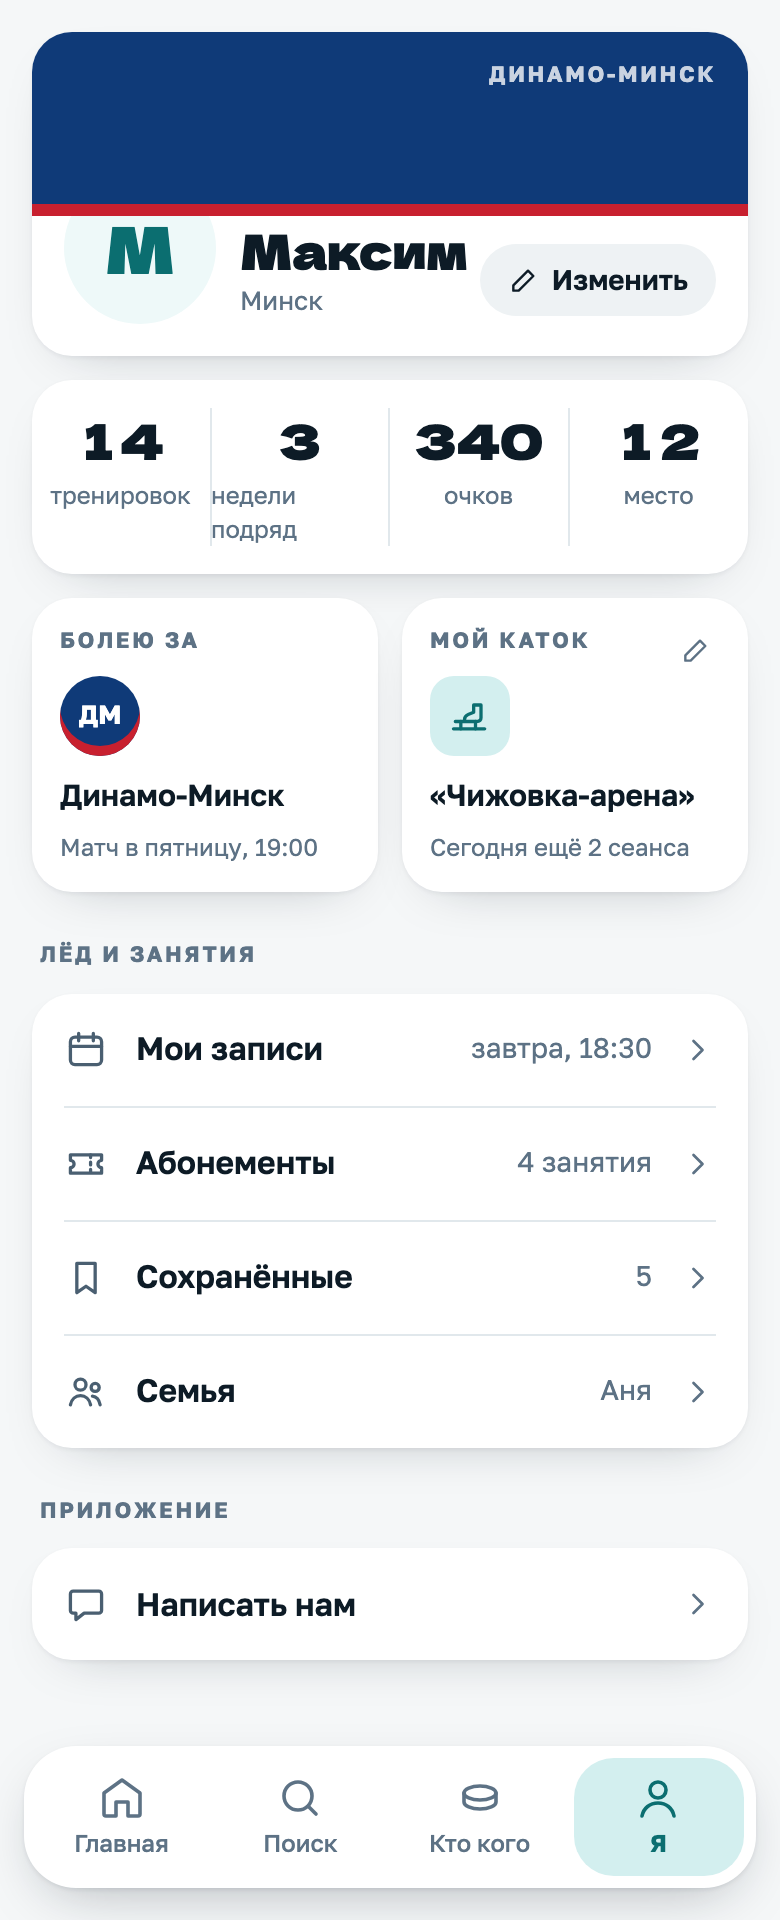
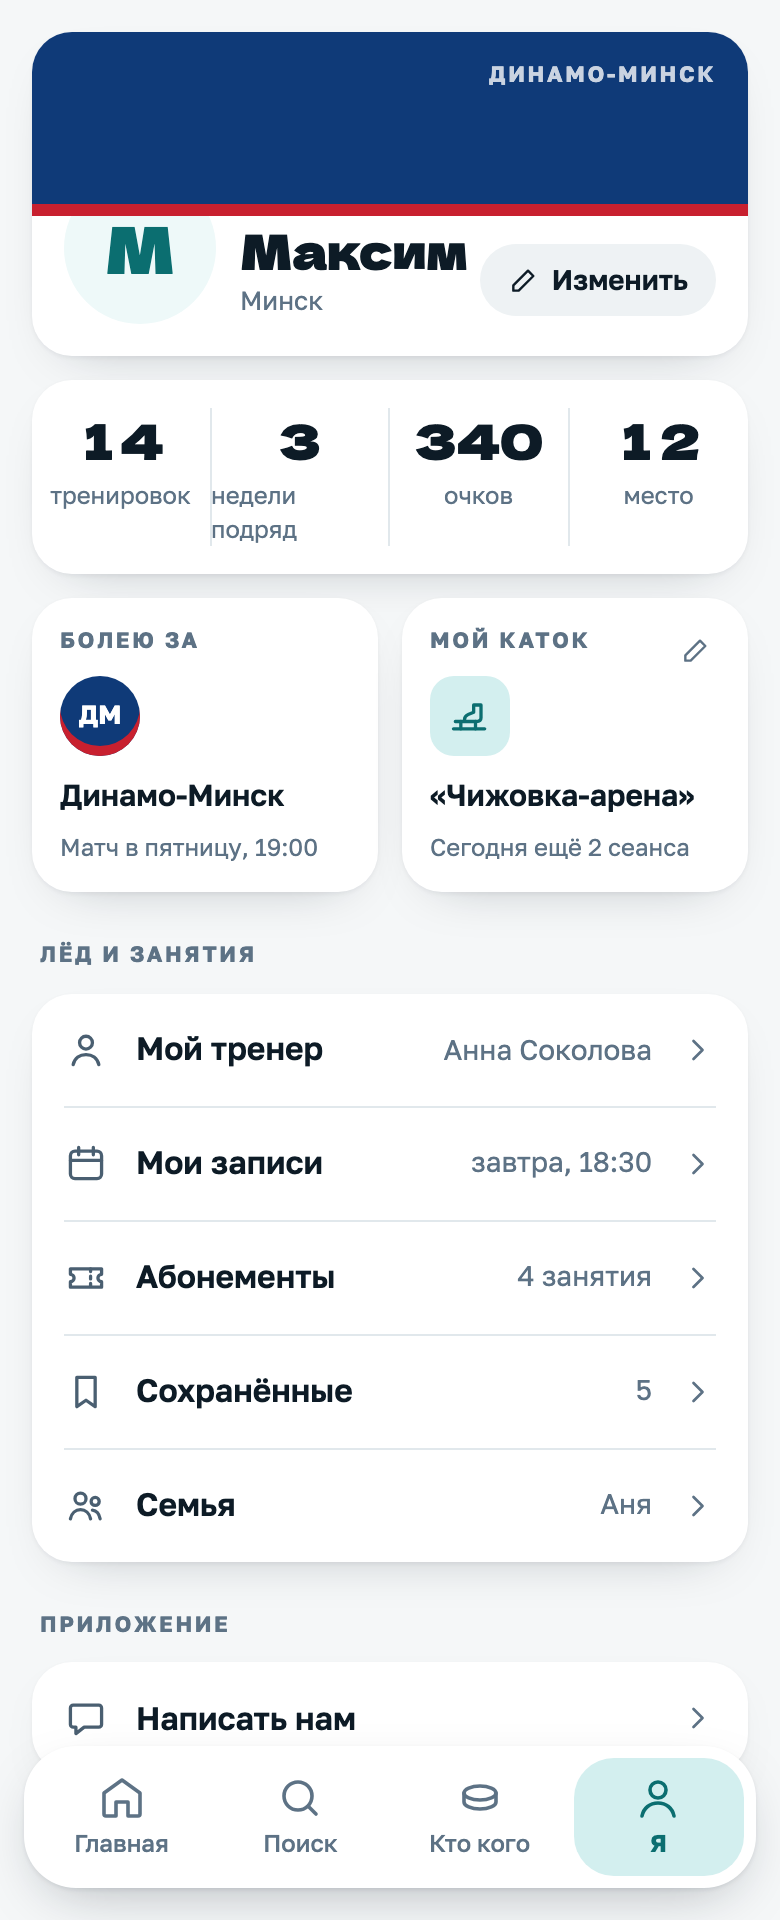
chore(design): строка «Мой тренер» в «Я»

diff --git a/design/your-season/rink-picker-step1.html b/design/your-season/rink-picker-step1.html
@@ -37,7 +37,7 @@ a{color:#0B6E70}a:hover{color:#073C3E}
           </span>
           <span style="flex: 1; min-width: 0; display: flex; flex-direction: column">
             <span style="font-weight: 600; font-size: 16px">«Чижовка-арена»</span>
-            <span style="font-size: 13px; color: #5d7285">сегодня ещё&nbsp;2&nbsp;сеанса</span>
+            <span style="font-size: 13px; color: #5d7285">сегодня ещё 2 сеанса</span>
           </span>
           <input type="radio" name="rink" checked="" style="width: 22px; height: 22px; margin: 0px; accent-color: rgb(11, 110, 112);">
         </label>
@@ -48,7 +48,7 @@ a{color:#0B6E70}a:hover{color:#073C3E}
           </span>
           <span style="flex: 1; min-width: 0; display: flex; flex-direction: column">
             <span style="font-weight: 600; font-size: 16px">«Замок»</span>
-            <span style="font-size: 13px; color: #5d7285">сегодня ещё&nbsp;1&nbsp;сеанс</span>
+            <span style="font-size: 13px; color: #5d7285">сегодня ещё 1 сеанс</span>
           </span>
           <input type="radio" name="rink" style="width: 22px; height: 22px; margin: 0px; accent-color: rgb(11, 110, 112);">
         </label>
@@ -59,7 +59,7 @@ a{color:#0B6E70}a:hover{color:#073C3E}
           </span>
           <span style="flex: 1; min-width: 0; display: flex; flex-direction: column">
             <span style="font-weight: 600; font-size: 16px">«Юность»</span>
-            <span style="font-size: 13px; color: #5d7285">сегодня ещё&nbsp;3&nbsp;сеанса</span>
+            <span style="font-size: 13px; color: #5d7285">сегодня ещё 3 сеанса</span>
           </span>
           <input type="radio" name="rink" style="width: 22px; height: 22px; margin: 0px; accent-color: rgb(11, 110, 112);">
         </label>
@@ -70,7 +70,7 @@ a{color:#0B6E70}a:hover{color:#073C3E}
           </span>
           <span style="flex: 1; min-width: 0; display: flex; flex-direction: column">
             <span style="font-weight: 600; font-size: 16px">Ледовый дворец</span>
-            <span style="font-size: 13px; color: #5d7285">сегодня сеансов нет, завтра&nbsp;— с&nbsp;9:00</span>
+            <span style="font-size: 13px; color: #5d7285">сегодня сеансов нет, завтра — с 9:00</span>
           </span>
           <input type="radio" name="rink" style="width: 22px; height: 22px; margin: 0px; accent-color: rgb(11, 110, 112);">
         </label>
@@ -81,7 +81,7 @@ a{color:#0B6E70}a:hover{color:#073C3E}
           </span>
           <span style="flex: 1; min-width: 0; display: flex; flex-direction: column">
             <span style="font-weight: 600; font-size: 16px">Минск-Арена</span>
-            <span style="font-size: 13px; color: #5d7285">сегодня ещё&nbsp;1&nbsp;сеанс</span>
+            <span style="font-size: 13px; color: #5d7285">сегодня ещё 1 сеанс</span>
           </span>
           <input type="radio" name="rink" style="width: 22px; height: 22px; margin: 0px; accent-color: rgb(11, 110, 112);">
         </label>
@@ -92,7 +92,7 @@ a{color:#0B6E70}a:hover{color:#073C3E}
           </span>
           <span style="flex: 1; min-width: 0; display: flex; flex-direction: column">
             <span style="font-weight: 600; font-size: 16px">Конькобежный стадион</span>
-            <span style="font-size: 13px; color: #5d7285">сегодня ещё&nbsp;2&nbsp;сеанса</span>
+            <span style="font-size: 13px; color: #5d7285">сегодня ещё 2 сеанса</span>
           </span>
           <input type="radio" name="rink" style="width: 22px; height: 22px; margin: 0px; accent-color: rgb(11, 110, 112);">
         </label>

diff --git a/design/your-season/source/MyRink.dc.html b/design/your-season/source/MyRink.dc.html
@@ -58,7 +58,7 @@ a{color:#0B6E70}a:hover{color:#073C3E}
       <span style="margin-top: 16px; width: 64px; height: 64px; border-radius: 20px; background: #D3EFEF; display: flex; align-items: center; justify-content: center; color: #0B6E70">
         <svg width="32" height="32" viewBox="0 0 24 24" fill="none" stroke="currentColor" stroke-width="1.8" stroke-linecap="round" stroke-linejoin="round" aria-hidden="true"><path d="M6 16V11a6 6 0 0 1 12 0v5l1.5 2h-15z"/><path d="M10 20a2 2 0 0 0 4 0"/></svg>
       </span>
-      <h2 id="bellTitle" style="margin: 8px 0 0; font-family: 'Dela Gothic One', sans-serif; font-weight: 400; font-size: 22px; line-height: 1.15">{{chosenName}} — твой каток</h2>
+      <h2 id="bellTitle" style="margin: 8px 0 0; font-family: 'Dela Gothic One', sans-serif; font-weight: 400; font-size: 22px; line-height: 1.15">{{chosenName}} — твой каток</h2>
       <p style="margin: 0; font-size: 15px; color: #4a5f71">Писать в&nbsp;Telegram, когда каток выложит новое расписание?</p>
       <div style="width: 100%; display: flex; flex-direction: column; gap: 6px; margin-top: 10px">
         <a href="Main.dc.html" style="display: flex; align-items: center; justify-content: center; height: 52px; border-radius: 14px; background: #45B9BB; color: #04262A; font-weight: 700; font-size: 16px; text-decoration: none">Да, писать</a>
@@ -78,12 +78,12 @@ class Component extends DCLogic {
     var self = this;
     var picked = this.state.picked;
     var list = [
-      { id: 'chizh', name: '«Чижовка-арена»', sub: 'сегодня ещё 2 сеанса' },
-      { id: 'zamok', name: '«Замок»', sub: 'сегодня ещё 1 сеанс' },
-      { id: 'yun', name: '«Юность»', sub: 'сегодня ещё 3 сеанса' },
-      { id: 'dvor', name: 'Ледовый дворец', sub: 'сегодня сеансов нет, завтра — с 9:00' },
-      { id: 'arena', name: 'Минск-Арена', sub: 'сегодня ещё 1 сеанс' },
-      { id: 'konk', name: 'Конькобежный стадион', sub: 'сегодня ещё 2 сеанса' }
+      { id: 'chizh', name: '«Чижовка-арена»', sub: 'сегодня ещё 2 сеанса' },
+      { id: 'zamok', name: '«Замок»', sub: 'сегодня ещё 1 сеанс' },
+      { id: 'yun', name: '«Юность»', sub: 'сегодня ещё 3 сеанса' },
+      { id: 'dvor', name: 'Ледовый дворец', sub: 'сегодня сеансов нет, завтра — с 9:00' },
+      { id: 'arena', name: 'Минск-Арена', sub: 'сегодня ещё 1 сеанс' },
+      { id: 'konk', name: 'Конькобежный стадион', sub: 'сегодня ещё 2 сеанса' }
     ];
     var chosen = list.filter(function (r) { return r.id === picked; })[0];
     return {

diff --git a/design/your-season/source/Main.dc.html b/design/your-season/source/Main.dc.html
@@ -108,6 +108,14 @@ a{color:#0B6E70}a:hover{color:#073C3E}
     <nav style="background: {{t.surface}}; border-radius: 20px; box-shadow: {{t.shadow}}; padding: 0 16px">
       <sc-if value="{{isSeason}}" hint-placeholder-val="{{true}}">
         <a href="#" style="display: flex; align-items: center; gap: 14px; min-height: 56px; border-bottom: 1px solid {{t.line}}; color: inherit; text-decoration: none">
+          <svg width="22" height="22" viewBox="0 0 24 24" fill="none" stroke="{{t.ink2}}" stroke-width="1.8" stroke-linecap="round" stroke-linejoin="round" aria-hidden="true"><circle cx="12" cy="8" r="3.5"/><path d="M5 20c.8-3.6 3.6-5.5 7-5.5s6.2 1.9 7 5.5"/></svg>
+          <span style="flex: none; font-weight: 600; font-size: 16px">Мой тренер</span>
+          <span style="flex: 1; min-width: 0; text-align: right; font-size: 14px; line-height: 1.25; color: {{t.muted}}">Анна&nbsp;Соколова</span>
+          <svg width="18" height="18" viewBox="0 0 24 24" fill="none" stroke="{{t.muted}}" stroke-width="1.8" stroke-linecap="round" stroke-linejoin="round" aria-hidden="true"><path d="m9 6 6 6-6 6"/></svg>
+        </a>
+      </sc-if>
+      <sc-if value="{{isSeason}}" hint-placeholder-val="{{true}}">
+        <a href="#" style="display: flex; align-items: center; gap: 14px; min-height: 56px; border-bottom: 1px solid {{t.line}}; color: inherit; text-decoration: none">
           <svg width="22" height="22" viewBox="0 0 24 24" fill="none" stroke="{{t.ink2}}" stroke-width="1.8" stroke-linecap="round" stroke-linejoin="round" aria-hidden="true"><rect x="3.5" y="5" width="17" height="15" rx="2.5"/><path d="M8 3v4M16 3v4M3.5 10h17"/></svg>
           <span style="flex: 1; font-weight: 600; font-size: 16px">Мои записи</span>
           <span style="font-size: 14px; color: {{t.muted}}">завтра, 18:30</span>

diff --git a/design/your-season/me-season-light.html b/design/your-season/me-season-light.html
@@ -89,6 +89,14 @@ a{color:#0B6E70}a:hover{color:#073C3E}
     <nav style="background: #ffffff; border-radius: 20px; box-shadow: 0 1px 2px rgba(13,27,38,.05), 0 10px 28px -18px rgba(13,27,38,.35); padding: 0 16px">
       
         <a href="#" style="display: flex; align-items: center; gap: 14px; min-height: 56px; border-bottom: 1px solid #e1e8ec; color: inherit; text-decoration: none">
+          <svg width="22" height="22" viewBox="0 0 24 24" fill="none" stroke="#4a5f71" stroke-width="1.8" stroke-linecap="round" stroke-linejoin="round" aria-hidden="true"><circle cx="12" cy="8" r="3.5"></circle><path d="M5 20c.8-3.6 3.6-5.5 7-5.5s6.2 1.9 7 5.5"></path></svg>
+          <span style="flex: none; font-weight: 600; font-size: 16px">Мой тренер</span>
+          <span style="flex: 1; min-width: 0; text-align: right; font-size: 14px; line-height: 1.25; color: #5d7285">Анна&nbsp;Соколова</span>
+          <svg width="18" height="18" viewBox="0 0 24 24" fill="none" stroke="#5d7285" stroke-width="1.8" stroke-linecap="round" stroke-linejoin="round" aria-hidden="true"><path d="m9 6 6 6-6 6"></path></svg>
+        </a>
+      
+      
+        <a href="#" style="display: flex; align-items: center; gap: 14px; min-height: 56px; border-bottom: 1px solid #e1e8ec; color: inherit; text-decoration: none">
           <svg width="22" height="22" viewBox="0 0 24 24" fill="none" stroke="#4a5f71" stroke-width="1.8" stroke-linecap="round" stroke-linejoin="round" aria-hidden="true"><rect x="3.5" y="5" width="17" height="15" rx="2.5"></rect><path d="M8 3v4M16 3v4M3.5 10h17"></path></svg>
           <span style="flex: 1; font-weight: 600; font-size: 16px">Мои записи</span>
           <span style="font-size: 14px; color: #5d7285">завтра, 18:30</span>

diff --git a/design/your-season/me-season-dark.html b/design/your-season/me-season-dark.html
@@ -89,6 +89,14 @@ a{color:#0B6E70}a:hover{color:#073C3E}
     <nav style="background: #1d2733; border-radius: 20px; box-shadow: 0 1px 2px rgba(0,0,0,.3); padding: 0 16px">
       
         <a href="#" style="display: flex; align-items: center; gap: 14px; min-height: 56px; border-bottom: 1px solid #2b3744; color: inherit; text-decoration: none">
+          <svg width="22" height="22" viewBox="0 0 24 24" fill="none" stroke="#c3d2dc" stroke-width="1.8" stroke-linecap="round" stroke-linejoin="round" aria-hidden="true"><circle cx="12" cy="8" r="3.5"></circle><path d="M5 20c.8-3.6 3.6-5.5 7-5.5s6.2 1.9 7 5.5"></path></svg>
+          <span style="flex: none; font-weight: 600; font-size: 16px">Мой тренер</span>
+          <span style="flex: 1; min-width: 0; text-align: right; font-size: 14px; line-height: 1.25; color: #8aa0b3">Анна&nbsp;Соколова</span>
+          <svg width="18" height="18" viewBox="0 0 24 24" fill="none" stroke="#8aa0b3" stroke-width="1.8" stroke-linecap="round" stroke-linejoin="round" aria-hidden="true"><path d="m9 6 6 6-6 6"></path></svg>
+        </a>
+      
+      
+        <a href="#" style="display: flex; align-items: center; gap: 14px; min-height: 56px; border-bottom: 1px solid #2b3744; color: inherit; text-decoration: none">
           <svg width="22" height="22" viewBox="0 0 24 24" fill="none" stroke="#c3d2dc" stroke-width="1.8" stroke-linecap="round" stroke-linejoin="round" aria-hidden="true"><rect x="3.5" y="5" width="17" height="15" rx="2.5"></rect><path d="M8 3v4M16 3v4M3.5 10h17"></path></svg>
           <span style="flex: 1; font-weight: 600; font-size: 16px">Мои записи</span>
           <span style="font-size: 14px; color: #8aa0b3">завтра, 18:30</span>

diff --git a/design/your-season/rink-picker-step2.html b/design/your-season/rink-picker-step2.html
@@ -23,7 +23,7 @@ a{color:#0B6E70}a:hover{color:#073C3E}
       <span style="margin-top: 16px; width: 64px; height: 64px; border-radius: 20px; background: #D3EFEF; display: flex; align-items: center; justify-content: center; color: #0B6E70">
         <svg width="32" height="32" viewBox="0 0 24 24" fill="none" stroke="currentColor" stroke-width="1.8" stroke-linecap="round" stroke-linejoin="round" aria-hidden="true"><path d="M6 16V11a6 6 0 0 1 12 0v5l1.5 2h-15z"></path><path d="M10 20a2 2 0 0 0 4 0"></path></svg>
       </span>
-      <h2 id="bellTitle" style="margin: 8px 0 0; font-family: 'Dela Gothic One', sans-serif; font-weight: 400; font-size: 22px; line-height: 1.15">«Чижовка-арена»&nbsp;— твой каток</h2>
+      <h2 id="bellTitle" style="margin: 8px 0 0; font-family: 'Dela Gothic One', sans-serif; font-weight: 400; font-size: 22px; line-height: 1.15">«Чижовка-арена» — твой каток</h2>
       <p style="margin: 0; font-size: 15px; color: #4a5f71">Писать в&nbsp;Telegram, когда каток выложит новое расписание?</p>
       <div style="width: 100%; display: flex; flex-direction: column; gap: 6px; margin-top: 10px">
         <a href="me-season-light.html" style="display: flex; align-items: center; justify-content: center; height: 52px; border-radius: 14px; background: #45B9BB; color: #04262A; font-weight: 700; font-size: 16px; text-decoration: none">Да, писать</a>

diff --git a/design/your-season/me-new-light.html b/design/your-season/me-new-light.html
@@ -59,6 +59,7 @@ a{color:#0B6E70}a:hover{color:#073C3E}
     <nav style="background: #ffffff; border-radius: 20px; box-shadow: 0 1px 2px rgba(13,27,38,.05), 0 10px 28px -18px rgba(13,27,38,.35); padding: 0 16px">
       
       
+      
       <a href="#" style="display: flex; align-items: center; gap: 14px; min-height: 56px; color: inherit; text-decoration: none">
         <svg width="22" height="22" viewBox="0 0 24 24" fill="none" stroke="#4a5f71" stroke-width="1.8" stroke-linecap="round" stroke-linejoin="round" aria-hidden="true"><circle cx="9" cy="8" r="3"></circle><circle cx="17" cy="9.5" r="2.2"></circle><path d="M3.5 19c.6-3 2.8-5 5.5-5s4.9 2 5.5 5M15.5 14.2c2.2.2 3.7 2 4.2 4.8"></path></svg>
         <span style="flex: 1; font-weight: 600; font-size: 16px">Семья</span>

diff --git a/design/your-season/me-new-dark.html b/design/your-season/me-new-dark.html
@@ -59,6 +59,7 @@ a{color:#0B6E70}a:hover{color:#073C3E}
     <nav style="background: #1d2733; border-radius: 20px; box-shadow: 0 1px 2px rgba(0,0,0,.3); padding: 0 16px">
       
       
+      
       <a href="#" style="display: flex; align-items: center; gap: 14px; min-height: 56px; color: inherit; text-decoration: none">
         <svg width="22" height="22" viewBox="0 0 24 24" fill="none" stroke="#c3d2dc" stroke-width="1.8" stroke-linecap="round" stroke-linejoin="round" aria-hidden="true"><circle cx="9" cy="8" r="3"></circle><circle cx="17" cy="9.5" r="2.2"></circle><path d="M3.5 19c.6-3 2.8-5 5.5-5s4.9 2 5.5 5M15.5 14.2c2.2.2 3.7 2 4.2 4.8"></path></svg>
         <span style="flex: 1; font-weight: 600; font-size: 16px">Семья</span>

diff --git a/design/your-season/README.md b/design/your-season/README.md
@@ -68,3 +68,11 @@ node design/your-season/tools/export.js
 - Значки клубов в «За кого болеешь?» серые с буквой. В коде — `logo` из `team_card()`, нет логотипа — круг `color` с `short`.
 - «Мои записи» в «Я» показана, потому что в баре макета 4 вкладки; при вкладке «Записи» строки нет.
 - `kk-tab` — скриншоты игры 11.11 плюс бар: игру не перерисовываем.
+
+## «Мой тренер» в «Я» (2026-11-12)
+
+Строка первой в группе «Лёд и занятия» (`me-season-light.html`, `me-season-dark.html`): иконка-человек 22 px, подпись «Мой тренер» 16 / 600 (не сжимается), справа имя тренера 14 px `--g-muted`, прижато вправо, шеврон. Тап — карточка тренера (тот же переход, что у карточки «Мой тренер» на «Главной»).
+- Показывается только если у человека есть «мой тренер» (иначе строки нет; пустых строк не бывает).
+- Длинное имя: значение переносится на вторую строку (до двух), по словам, без многоточия; подпись «Мой тренер» остаётся одной строкой; имя и фамилия не разрываются неразрывным пробелом между ними, только по границе слов при нехватке места.
+- Макет условный по сочетанию строк: у ученика в баре есть вкладка «Записи», и строка «Мои записи» тогда скрыта; в макете обе показаны ради стилей.
+
